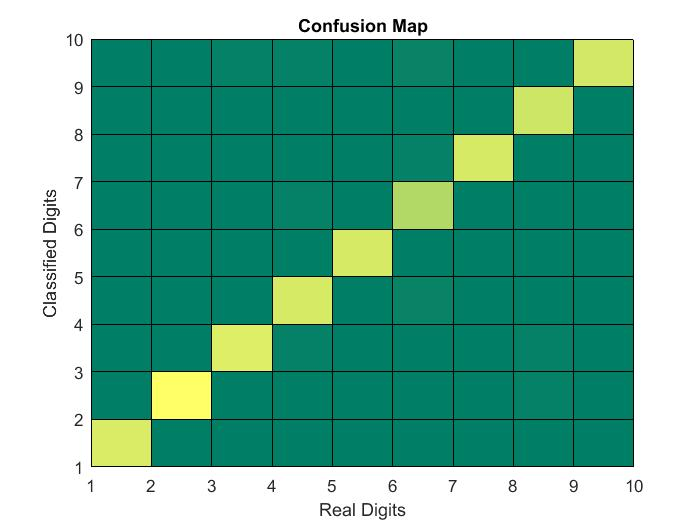
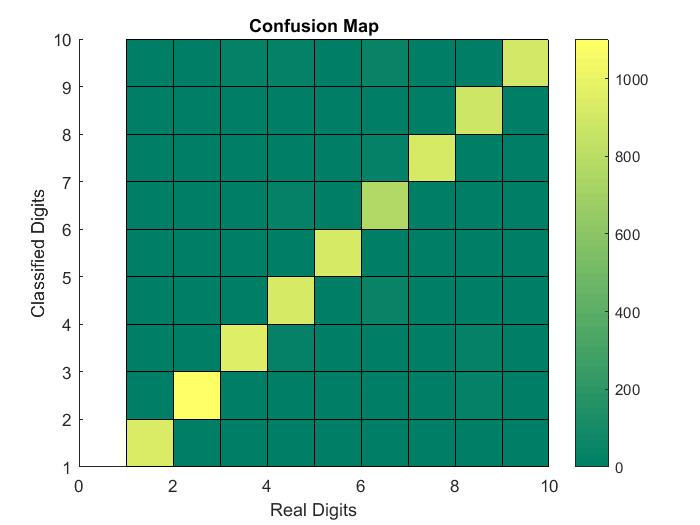
added colorbar to figure

diff --git a/ml_task/mlp/matlab-mnist-two-layer-perceptron-master/train.m b/ml_task/mlp/matlab-mnist-two-layer-perceptron-master/train.m
@@ -95,7 +95,7 @@ display(maxCorrectlyClassified/10000);
 figure(3); clf; hold on;
 pcolor(cMat);
 colormap(summer);
-colormap;
+colorbar;
 xlabel('Real Digits');
 ylabel('Classified Digits');
 title('Confusion Map');
